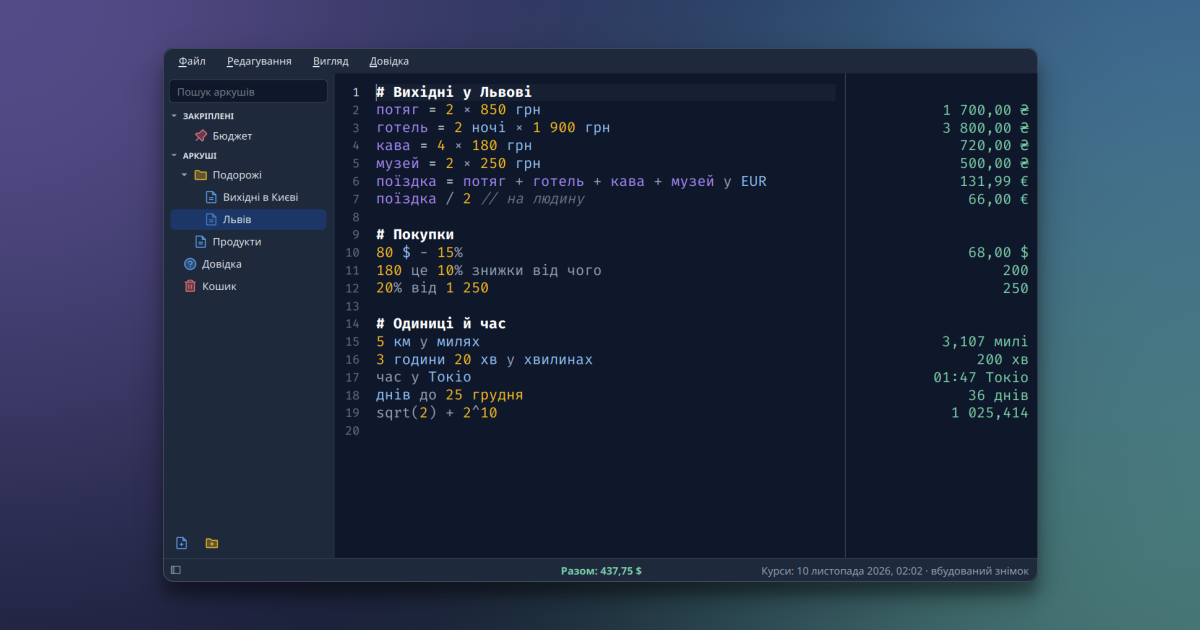
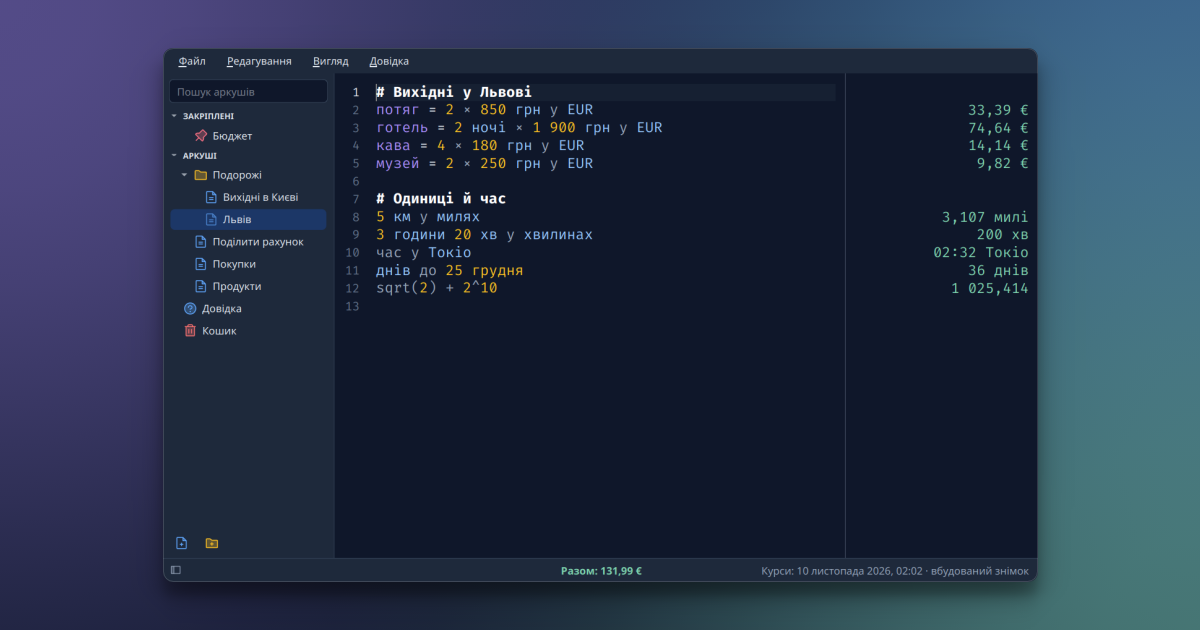
docs(previews): show the Lviv trip total on the bottom bar
The demo and screenshots showed $437.75 on the bar for a €131.99 trip,
because the trip total, the per-person split and the shopping lines were
all added in.

Convert each Lviv cost to EUR on its own line and drop the trip and
per-person lines. Move the shopping lines and the split to their own
sheets in the sidebar, so the bar shows €131.99 in every picture.

Rebuild docs/demo.gif and docs/screenshot*.png with `make gif`.

diff --git a/scripts/make_gif.py b/scripts/make_gif.py
@@ -66,17 +66,10 @@ BAYER = [
 
 LVIV = {
     "en": """# Weekend in Lviv
-train = 2 × 850 UAH
-hotel = 2 nights × 1,900 UAH
-coffee = 4 × 180 UAH
-museum = 2 × 250 UAH
-trip = train + hotel + coffee + museum in EUR
-trip / 2 // per person
-
-# Shopping
-$80 - 15%
-180 is 10% off what
-20% of 1,250
+train = 2 × 850 UAH in EUR
+hotel = 2 nights × 1,900 UAH in EUR
+coffee = 4 × 180 UAH in EUR
+museum = 2 × 250 UAH in EUR
 
 # Units and time
 5 km in miles
@@ -86,17 +79,10 @@ days until 25 December
 sqrt(2) + 2^10
 """,
     "uk": """# Вихідні у Львові
-потяг = 2 × 850 грн
-готель = 2 ночі × 1 900 грн
-кава = 4 × 180 грн
-музей = 2 × 250 грн
-поїздка = потяг + готель + кава + музей у EUR
-поїздка / 2 // на людину
-
-# Покупки
-80 $ − 15%
-180 це 10% знижки від чого
-20% від 1 250
+потяг = 2 × 850 грн у EUR
+готель = 2 ночі × 1 900 грн у EUR
+кава = 4 × 180 грн у EUR
+музей = 2 × 250 грн у EUR
 
 # Одиниці й час
 5 км у милях
@@ -110,21 +96,15 @@ LVIV_SHEET = {"en": "Trips/Lviv.txt", "uk": "Подорожі/Львів.txt"}
 
 # short lines from the sheet above, for a small square window
 SHORT = """# Weekend in Lviv
-train = 2 × 850 UAH
-hotel = 2 × 1,900 UAH
-coffee = 4 × 180 UAH
-museum = 2 × 250 UAH
-trip = total in EUR
-trip / 2 // each
-
-# Shopping
-$80 - 15%
-180 is 10% off what
-20% of 1,250
+train = 2 × 850 UAH in EUR
+hotel = 2 × 1,900 UAH in EUR
+coffee = 4 × 180 UAH in EUR
+museum = 2 × 250 UAH in EUR
 
 # Units and time
 5 km in miles
 3 hours in minutes
+days until 25 December
 sqrt(2) + 2^10
 """
 
@@ -136,6 +116,8 @@ OTHER_SHEETS = {
             "# Kyiv weekend\ntrain = 2 × 850 UAH\nhotel = 2 nights × 1,900 UAH\n"
         ),
         "Groceries.txt": "# Groceries\nmilk 2 × $1.20\nbread $3.50\n",
+        "Shopping.txt": "# Shopping\n$80 - 15%\n180 is 10% off what\n20% of 1,250\n",
+        "Split the bill.txt": "# Split the bill\n€84 / 3 // each\n",
         "Welcome.txt": WELCOME,
     },
     "uk": {
@@ -144,6 +126,8 @@ OTHER_SHEETS = {
             "# Вихідні в Києві\nпотяг = 2 × 850 грн\nготель = 2 ночі × 1 900 грн\n"
         ),
         "Продукти.txt": "# Продукти\nмолоко 2 × 1,20 $\nхліб 3,50 $\n",
+        "Покупки.txt": "# Покупки\n80 $ − 15%\n180 це 10% знижки від чого\n20% від 1 250\n",
+        "Поділити рахунок.txt": "# Поділити рахунок\n84 € / 3 // кожному\n",
     },
 }
 
